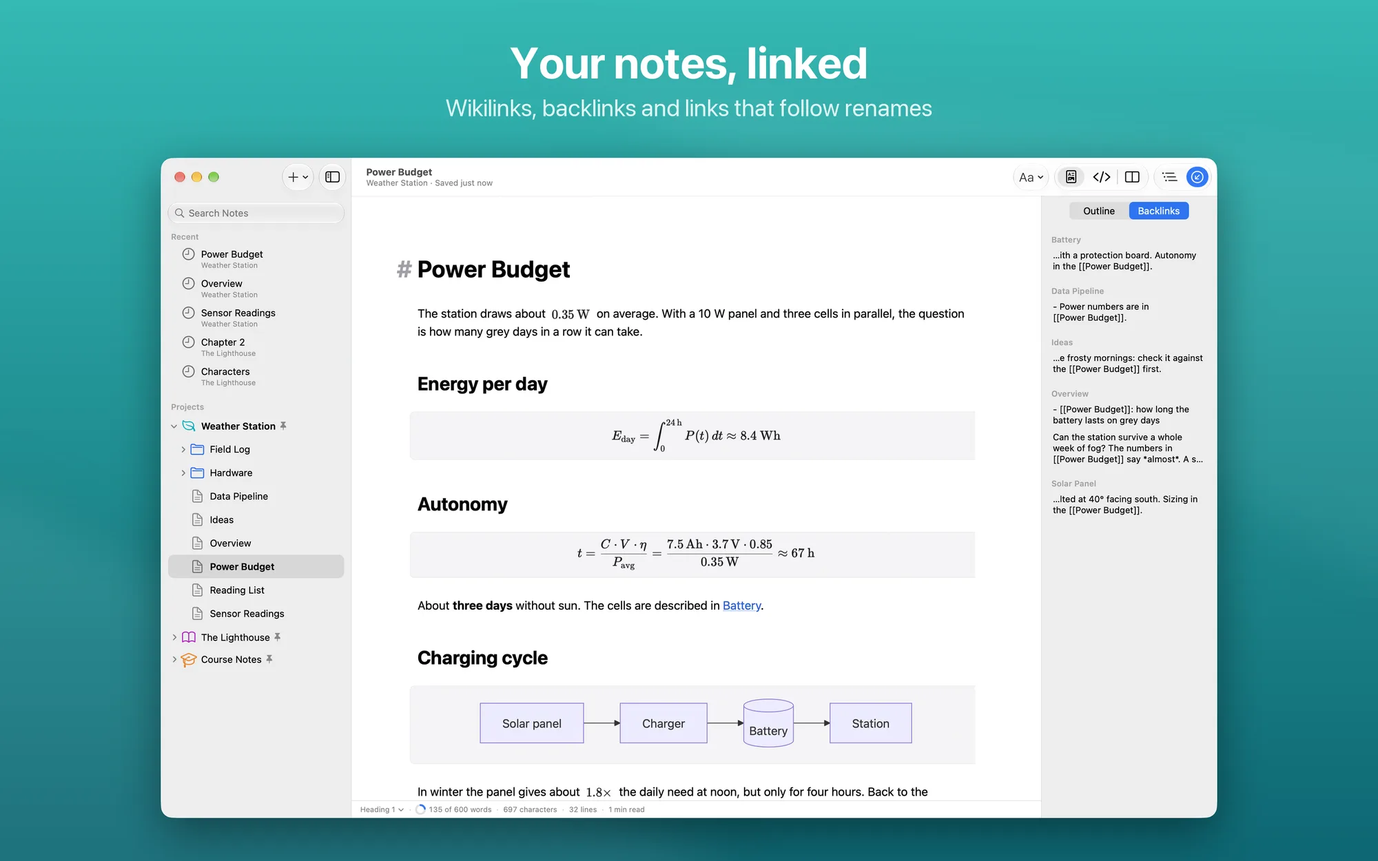
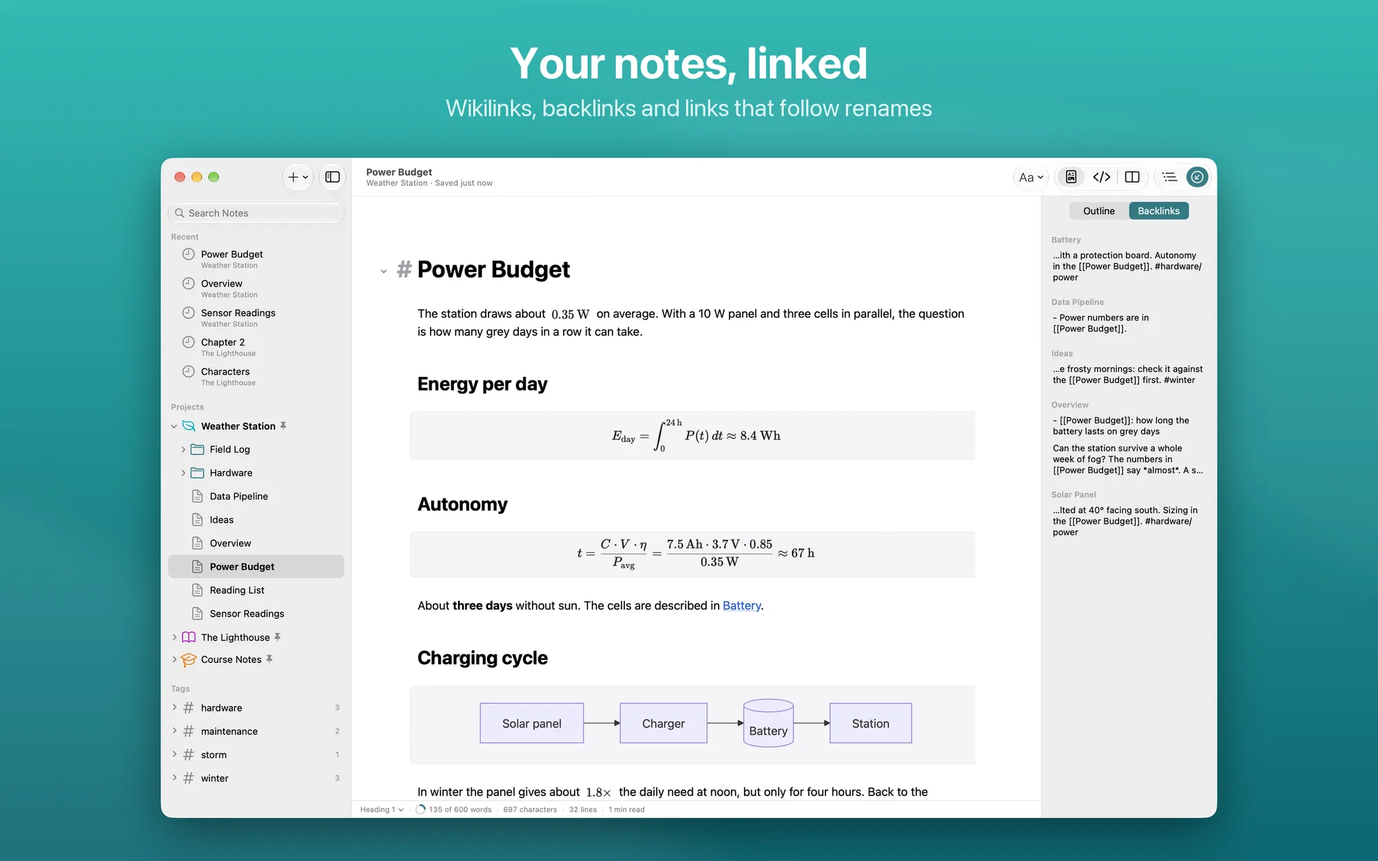
feat(charta): versione 1.1 e app per Mac sull'App Store
Pagina con la versione per Mac disponibile e le funzioni della 1.1: tag,
riquadro dei comandi, sezioni ripiegabili, anteprima dei collegamenti,
collegamenti rotti e note orfane, CSS personalizzato e opzioni del PDF,
copia come testo formattato. Pagina nuova della documentazione su tag,
comandi e sezioni ripiegate; screenshot della 1.1.

Changed region(s): [[0.744, 0.312, 0.868, 0.624], [0.806, 0.1872, 0.899, 0.312], [0.124, 0.8112, 0.186, 0.9048]]

diff --git a/src/data/docs/charta/tag-comandi-e-sezioni-ripiegate.md b/src/data/docs/charta/tag-comandi-e-sezioni-ripiegate.md
@@ -1,0 +1,67 @@
+---
+title: "Tag, comandi e sezioni ripiegate"
+description: "I tag #nome nelle note, il riquadro dei comandi, le sezioni ripiegabili e l'anteprima dei collegamenti di Charta, su Mac, iPhone e iPad."
+project: "charta"
+order: 6
+section: "Cartelle"
+---
+
+Quattro strumenti per orientarsi in note lunghe o numerose, arrivati con Charta 1.1.
+
+## Tag
+
+Un tag è una parola preceduta da `#`, scritta nel testo o nella chiave `tags:` del front matter:
+
+```markdown
+---
+tags: [meteo, hardware]
+---
+
+Da verificare prima dell'inverno. #idea #progetto/charta
+```
+
+- Il tag comincia all'inizio della riga o dopo uno spazio o una parentesi, e contiene lettere (anche accentate), cifre, `_`, `-` e `/`. Deve avere almeno un carattere che non sia una cifra, così `#1` resta testo.
+- La `/` crea tag annidati: `#progetto/charta` sta sotto `#progetto`.
+- Nel testo i tag si colorano su uno sfondo arrotondato, come il codice in linea, e nell'anteprima allo stesso modo. Dopo `#` Charta propone i tag già usati nella cartella.
+
+Nelle cartelle la barra laterale ha la sezione **Tag**: un ramo per tag, con i tag annidati dentro e le note che li hanno. **Cerca #… nelle note** cerca il tag in tutte le note. Nel testo, <kbd>⌘</kbd>-clic su un tag o **Note con #…** nel menu del tasto destro fanno la stessa ricerca.
+
+## Riquadro dei comandi
+
+**Vista › Comandi…** (<kbd>⇧</kbd> <kbd>⌘</kbd> <kbd>P</kbd>; su iPhone e iPad nel menu **Altro**, e <kbd>⇧</kbd> <kbd>⌘</kbd> <kbd>P</kbd> con la tastiera) apre un campo dove scrivi parte del nome di un comando:
+
+- i comandi di formato, inserimento, tabella, vista, sezioni ed esportazione, con la loro scorciatoia;
+- i titoli del documento, per andarci;
+- nelle cartelle, anche le note e i tag.
+
+Senza testo compaiono prima i comandi usati di recente. I comandi si trovano anche con parole diverse dal nome, per esempio «h1» per **Titolo 1** o «bold» per **Grassetto**.
+
+## Sezioni ripiegate
+
+Una sezione va da un titolo al titolo successivo dello stesso livello o più alto. Ripiegarla nasconde il suo testo e lascia il titolo con «…»; il file non cambia.
+
+- Una freccia accanto ai titoli ripiega e riapre la sezione. Sul Mac compare passando con il puntatore nel margine; su iPhone e nelle colonne strette sta dopo il testo del titolo dove c'è il cursore.
+- Sul Mac, nel menu **Vista**: **Ripiega la sezione** (<kbd>⌥</kbd> <kbd>⌘</kbd> <kbd>[</kbd>), **Espandi la sezione** (<kbd>⌥</kbd> <kbd>⌘</kbd> <kbd>]</kbd>), **Ripiega tutte le sezioni** (<kbd>⌃</kbd> <kbd>⌥</kbd> <kbd>⌘</kbd> <kbd>[</kbd>) ed **Espandi tutte le sezioni** (<kbd>⌃</kbd> <kbd>⌥</kbd> <kbd>⌘</kbd> <kbd>]</kbd>). Gli stessi comandi sono nel tasto destro su un titolo e nel riquadro dei comandi.
+- Nella **Struttura** i titoli hanno le stesse frecce, e il menu contestuale ha **Ripiega i titoli di livello N**. Trascinando un titolo nella Struttura sposti tutta la sua sezione; le righe vuote tra le sezioni restano al loro posto.
+- Scrivere dentro il tratto nascosto o andare a capo alla fine del titolo riapre la sezione. Il cursore non resta nascosto: la freccia → alla fine del titolo salta la sezione.
+
+Charta ricorda le sezioni ripiegate di ogni file e le ripiega di nuovo quando lo riapri o lo ricarichi. Funziona nel WYSIWYG e nell'editor di codice.
+
+## Anteprima dei collegamenti
+
+Fermando il puntatore su un collegamento `[[nota]]` o su un richiamo `[^1]` (su iPhone e iPad tenendolo premuto), compare un riquadro con:
+
+- l'inizio della nota, senza il front matter;
+- la sezione, se il collegamento punta a un titolo (`[[nota#titolo]]`);
+- il testo della nota a piè di pagina.
+
+Il testo è formattato e si ferma alla fine di un blocco, entro circa 1200 caratteri. Il riquadro si chiude quando riprendi a scrivere.
+
+## Collegamenti rotti e note orfane
+
+Nelle cartelle, **Archivio › Collegamenti rotti e note orfane…** (sul Mac anche nel menu **+**, su iPhone e iPad nel menu **Altro**, e nel riquadro dei comandi) apre due elenchi:
+
+- **Collegamenti rotti**: i collegamenti che non portano a nessuna nota della cartella, raggruppati per nome cercato. **Crea nota** crea la nota mancante; un clic su un collegamento apre la nota che lo contiene in quel punto.
+- **Note orfane**: le note che nessun'altra nota collega, con `[[…]]` o con un link Markdown. Un collegamento di una nota a sé stessa non conta.
+
+Gli elenchi si aggiornano a ogni salvataggio.

diff --git a/src/data/en/docs/charta/tags-commands-and-folded-sections.md b/src/data/en/docs/charta/tags-commands-and-folded-sections.md
@@ -1,0 +1,67 @@
+---
+title: "Tags, commands and folded sections"
+description: "Charta's #name tags, the command palette, foldable sections and link previews, on Mac, iPhone and iPad."
+project: "charta"
+order: 6
+section: "Folders"
+---
+
+Four tools for finding your way in long or numerous notes, added in Charta 1.1.
+
+## Tags
+
+A tag is a word preceded by `#`, written in the text or in the `tags:` key of the front matter:
+
+```markdown
+---
+tags: [weather, hardware]
+---
+
+To check before winter. #idea #project/charta
+```
+
+- A tag starts at the beginning of a line or after a space or a parenthesis, and contains letters (accented ones too), digits, `_`, `-` and `/`. It needs at least one character that isn't a digit, so `#1` stays text.
+- The `/` creates nested tags: `#project/charta` sits under `#project`.
+- In the text, tags are colored on a rounded background, like inline code, and the same in the preview. After `#`, Charta suggests the tags already used in the folder.
+
+In folders, the sidebar has a **Tags** section: one branch per tag, with nested tags inside and the notes that have them. **Search Notes for #…** searches every note for the tag. In the text, <kbd>⌘</kbd>-click on a tag or **Notes Tagged #…** in the right-click menu run the same search.
+
+## Command palette
+
+**View › Commands…** (<kbd>⇧</kbd> <kbd>⌘</kbd> <kbd>P</kbd>; on iPhone and iPad in the **More** menu, and <kbd>⇧</kbd> <kbd>⌘</kbd> <kbd>P</kbd> with a keyboard) opens a field where you type part of a command's name:
+
+- format, insert, table, view, section and export commands, with their shortcut;
+- the document's headings, to jump to them;
+- in folders, notes and tags too.
+
+With no text, recently used commands come first. Commands can also be found with words other than their name, for example "h1" for **Heading 1** or "bold" for **Bold**.
+
+## Folded sections
+
+A section runs from a heading to the next heading of the same or a higher level. Folding it hides its text and leaves the heading with "…"; the file doesn't change.
+
+- An arrow next to headings folds and unfolds the section. On the Mac it appears when the pointer passes over the margin; on iPhone and in narrow columns it sits after the text of the heading where the cursor is.
+- On the Mac, in the **View** menu: **Fold Section** (<kbd>⌥</kbd> <kbd>⌘</kbd> <kbd>[</kbd>), **Expand Section** (<kbd>⌥</kbd> <kbd>⌘</kbd> <kbd>]</kbd>), **Fold All Sections** (<kbd>⌃</kbd> <kbd>⌥</kbd> <kbd>⌘</kbd> <kbd>[</kbd>) and **Expand All Sections** (<kbd>⌃</kbd> <kbd>⌥</kbd> <kbd>⌘</kbd> <kbd>]</kbd>). The same commands are in the right-click menu on a heading and in the command palette.
+- In the **Outline**, headings have the same arrows, and the context menu has **Fold Level N Headings**. Dragging a heading in the Outline moves its whole section; the blank lines between sections stay where they are.
+- Typing inside the hidden part, or pressing Return at the end of the heading, unfolds the section. The cursor never stays hidden: the → key at the end of the heading skips the section.
+
+Charta remembers the folded sections of each file and folds them again when you reopen or reload it. It works in WYSIWYG and in the code editor.
+
+## Link previews
+
+Rest the pointer on a `[[note]]` link or a `[^1]` reference (on iPhone and iPad, press and hold it) and a popover shows:
+
+- the beginning of the note, without the front matter;
+- the section, if the link points to a heading (`[[note#heading]]`);
+- the text of the footnote.
+
+The text is formatted and stops at the end of a block, within about 1,200 characters. The popover closes when you start typing again.
+
+## Broken links and orphan notes
+
+In folders, **File › Broken Links and Orphan Notes…** (on the Mac also in the **+** menu, on iPhone and iPad in the **More** menu, and in the command palette) opens two lists:
+
+- **Broken Links**: links that don't lead to any note in the folder, grouped by the name they look for. **Create Note** creates the missing note; clicking a link opens the note that contains it at that point.
+- **Orphan Notes**: notes no other note links to, with `[[…]]` or with a Markdown link. A note linking to itself doesn't count.
+
+The lists update on every save.

diff --git a/src/data/projects/charta.md b/src/data/projects/charta.md
@@ -25,12 +25,15 @@ Charta è un editor Markdown per Mac, iPhone e iPad che ti fa scrivere lo stesso
 - **Formule e diagrammi**: formule LaTeX nel testo e a parte, disegnate con KaTeX, e diagrammi Mermaid, inclusi nell'app e senza bisogno di rete
 - **Markdown esteso**: tabelle, voci da spuntare, note a piè di pagina, front matter YAML, testo evidenziato, sommario `[TOC]`, citazioni speciali come `> [!NOTE]` e codice colorato in una trentina di linguaggi
 - **Note collegate**: una cartella si apre come progetto, con l'albero delle note e la ricerca nel testo di tutte; collegamenti `[[nota]]` completati mentre scrivi, collegamenti in entrata, link aggiornati quando rinomini una nota e grafo delle note
+- **Tag e sezioni**: tag `#nome` anche annidati, raccolti nella barra laterale; sezioni ripiegabili sotto i titoli, ricordate per ogni file, e spostate trascinando i titoli nella Struttura
+- **Riquadro dei comandi**: tutti i comandi, i titoli del documento e, nelle cartelle, note e tag, da trovare scrivendone una parte (<kbd>⇧</kbd> <kbd>⌘</kbd> <kbd>P</kbd>)
+- **Anteprima dei collegamenti**: fermando il puntatore su un `[[collegamento]]` o una nota a piè di pagina ne leggi il testo senza aprirlo; nelle cartelle l'elenco dei collegamenti rotti e delle note orfane
 - **Progetti**: progetti fissati e note recenti, ciascun progetto con il suo nome, colore e simbolo; Vai alla nota (<kbd>⌘</kbd> <kbd>T</kbd>) apre qualsiasi nota per nome
 - **Trova e sostituisci** in tutta la cartella, anche con parole intere ed espressioni regolari
 - **Tasto destro**: comandi per ciò che sta sotto il cursore, come aprire o rinominare una nota collegata, creare una nota dalla selezione, aggiungere righe e colonne, spuntare tutte le voci o spostare una sezione
 - **File cambiati da altre app**: Charta avvisa e chiede se ricaricare o tenere la versione aperta
 - **Scrivere più in fretta**: Invio continua gli elenchi, Tab passa alla cella successiva di una tabella, il testo copiato da una pagina web diventa Markdown, le immagini incollate o trascinate si salvano accanto alla nota; obiettivo di parole salvato nel file, conteggio delle parole e tempo di lettura
-- **Esporta e stampa**: HTML, PDF, Word (DOCX) ed EPUB, con lo stile dell'anteprima (GitHub, Carta o Compatto); in Word ed EPUB formule e diagrammi diventano immagini
+- **Esporta e stampa**: HTML, PDF, Word (DOCX) ed EPUB, con lo stile dell'anteprima (GitHub, Carta o Compatto) o un tuo CSS; nel PDF indice, numeri di pagina e intestazione; in Word ed EPUB formule e diagrammi diventano immagini. **Copia come testo formattato** per incollare in Mail, Pages o Word
 - **Solo sul Mac**: finestra di benvenuto con progetti e documenti recenti, menu Formato e Inserisci con le scorciatoie da tastiera, Modalità Focus e Macchina da scrivere, documenti in schede
 - **Solo su iPhone e iPad**: barra sopra la tastiera con formato, elenchi, link, rientri e un menu per inserire tabelle, codice, formule e diagrammi; esportazioni condivise con AirDrop, Mail o File
 - **Privata**: nessun account e nessun dato raccolto, i testi restano sul dispositivo; interfaccia in italiano e in inglese, tema chiaro e scuro
@@ -38,4 +41,4 @@ Charta è un editor Markdown per Mac, iPhone e iPad che ti fa scrivere lo stesso
 
 ## Piattaforme
 
-Disponibile sull'App Store per **iPhone** e **iPad** con iOS e iPadOS 26 o successivo. La versione per **Mac**, con chip Apple (Apple silicon) e macOS 26 o successivo, arriverà nella stessa pagina dello store: un solo download gratuito varrà su tutti i dispositivi.
+Disponibile sull'App Store per **Mac** con chip Apple (Apple silicon) e macOS 26 o successivo, e per **iPhone** e **iPad** con iOS e iPadOS 26 o successivo. Un solo download gratuito vale su tutti i dispositivi.

diff --git a/src/data/en/projects/charta.md b/src/data/en/projects/charta.md
@@ -25,12 +25,15 @@ Charta is a Markdown editor for Mac, iPhone and iPad that lets you write the sam
 - **Math and diagrams**: LaTeX math inline and in blocks, rendered with KaTeX, and Mermaid diagrams, bundled in the app and working without a network
 - **Extended Markdown**: tables, checklists, footnotes, YAML front matter, highlighted text, a `[TOC]` table of contents, callouts like `> [!NOTE]` and code highlighting for about thirty languages
 - **Linked notes**: open a folder as a project, with a note tree and full-text search; `[[note]]` links completed as you type, backlinks, links that update when you rename a note, and a note graph
+- **Tags and sections**: `#name` tags, nested too, gathered in the sidebar; foldable sections under headings, remembered for each file, and moved by dragging headings in the Outline
+- **Command palette**: every command, the document's headings and, in folders, notes and tags, found by typing part of their name (<kbd>⇧</kbd> <kbd>⌘</kbd> <kbd>P</kbd>)
+- **Link previews**: rest the pointer on a `[[link]]` or a footnote to read it without opening it; in folders, a list of broken links and orphan notes
 - **Projects**: pinned projects and recent notes, each project with its own name, color and symbol; Go to Note (<kbd>⌘</kbd> <kbd>T</kbd>) opens any note by name
 - **Find and replace** across the whole folder, with whole words and regular expressions
 - **Right-click**: commands for what's under the cursor, such as opening or renaming a linked note, creating a note from the selection, adding rows and columns, checking every item or moving a section
 - **Files changed by other apps**: Charta tells you and asks whether to reload or keep the open version
 - **Write faster**: Return continues lists, Tab moves to the next table cell, text copied from a web page becomes Markdown, pasted or dropped images are saved next to the note; a word goal saved in the file, word count and reading time
-- **Export and print**: HTML, PDF, Word (DOCX) and EPUB, in the preview style of your choice (GitHub, Paper or Compact); in Word and EPUB, math and diagrams become images
+- **Export and print**: HTML, PDF, Word (DOCX) and EPUB, in the preview style of your choice (GitHub, Paper or Compact) or your own CSS; in PDFs a table of contents, page numbers and a header; in Word and EPUB, math and diagrams become images. **Copy as Rich Text** to paste into Mail, Pages or Word
 - **Mac only**: a welcome window with recent projects and documents, Format and Insert menus with keyboard shortcuts, Focus Mode and Typewriter Mode, documents in tabs
 - **iPhone and iPad only**: a bar above the keyboard with formatting, lists, links, indentation and a menu to insert tables, code, math and diagrams; exports shared with AirDrop, Mail or Files
 - **Private**: no account and no data collected, your writing stays on your device; interface in English and Italian, light and dark themes
@@ -38,4 +41,4 @@ Charta is a Markdown editor for Mac, iPhone and iPad that lets you write the sam
 
 ## Platforms
 
-Available on the App Store for **iPhone** and **iPad** with iOS and iPadOS 26 or later. The **Mac** version, for Apple silicon with macOS 26 or later, will arrive on the same store page: one free download will work on all your devices.
+Available on the App Store for **Mac** with Apple silicon and macOS 26 or later, and for **iPhone** and **iPad** with iOS and iPadOS 26 or later. One free download works on all your devices.

diff --git a/src/data/docs/charta/formato-tabelle-e-scrittura.md b/src/data/docs/charta/formato-tabelle-e-scrittura.md
@@ -37,10 +37,11 @@ Un clic con il tasto destro nel testo (su iPhone e iPad il menu che compare tocc
 
 - **su un collegamento `[[nota]]`**: **Apri «…»**, **Collegamenti in entrata** e **Rinomina la nota…** (nelle cartelle), sul Mac **Apri in una finestra a parte**; se la nota non esiste, **Crea la nota «…»**. Poi **Copia collegamento** e **Togli il collegamento**;
 - **su un link**: **Apri link** (o **Vai al titolo** per un link interno), **Copia indirizzo**, **Modifica link…**, che seleziona l'indirizzo, e **Togli il collegamento**, che lascia il testo;
-- **con del testo selezionato**, in una cartella: **Crea nota dalla selezione** sposta il testo in una nota nuova accanto e lascia al suo posto il collegamento; **Collega a una nota…** trasforma la selezione in `[[|testo]]` e propone le note; **Cerca nella cartella** la cerca in tutte le note;
+- **con del testo selezionato**, in una cartella: **Crea nota dalla selezione** sposta il testo in una nota nuova accanto e lascia al suo posto il collegamento; **Collega a una nota…** trasforma la selezione in `[[|testo]]` e propone le note; **Cerca nella cartella** la cerca in tutte le note. Con qualsiasi selezione c'è anche **Copia come testo formattato**;
 - **in una tabella**: i sottomenu **Riga** (**Inserisci riga sopra**, **Inserisci riga sotto**, **Elimina riga**) e **Colonna** (inserisci a sinistra o a destra, elimina, allinea), e **Formatta tabella**;
 - **in una voce da spuntare**: **Spunta** o **Togli la spunta**, **Spunta tutte** e **Togli tutte le spunte** (anche le voci annidate);
-- **su un titolo**: **Copia collegamento al titolo** (un `[[nota#titolo]]` nelle cartelle, un link `#titolo` in un documento) e **Sposta la sezione in su** o **in giù**, che scambia il titolo e il suo testo con la sezione vicina dello stesso livello;
+- **su un titolo**: **Copia collegamento al titolo** (un `[[nota#titolo]]` nelle cartelle, un link `#titolo` in un documento) e **Sposta la sezione in su** o **in giù**, che scambia il titolo e il suo testo con la sezione vicina dello stesso livello; poi **Ripiega la sezione** o **Espandi la sezione** e le versioni per tutte le sezioni;
+- **su un tag**: **Note con #…** cerca il tag in tutte le note della cartella;
 - **in un blocco di codice**: **Copia il codice** e il sottomenu **Lingua**; **in una formula o un diagramma**: **Copia il sorgente**; **su un richiamo di nota**: **Vai alla nota a piè di pagina**;
 - **nel testo normale**: i sottomenu **Formato** e **Trasforma in** (testo, titoli, elenchi, citazione).
 

diff --git a/src/data/docs/charta/cartelle-e-note-collegate.md b/src/data/docs/charta/cartelle-e-note-collegate.md
@@ -13,10 +13,11 @@ Una cartella aperta in Charta diventa un **progetto**: un insieme di note Markdo
 - **Mac**: **Archivio › Apri cartella…** (<kbd>⇧</kbd> <kbd>⌘</kbd> <kbd>O</kbd>). Ogni cartella si apre nella sua finestra; le ultime aperte sono in **Archivio › Cartelle recenti**, che si svuota con **Cancella elenco**.
 - **iPhone e iPad**: **Apri cartella** nella schermata iniziale. Su iPad la cartella si apre in una finestra sua, su iPhone a schermo intero.
 
-A sinistra c'è la barra delle cartelle con due sezioni:
+A sinistra c'è la barra delle cartelle con tre sezioni:
 
 - **Recenti**: le ultime note aperte, di tutti i progetti, con il nome del progetto sotto;
-- **Progetti**: i progetti fissati e recenti, ciascuno un ramo da aprire. Il progetto della finestra mostra il suo albero; una nota di un altro progetto lo apre nella stessa finestra (o porta davanti la finestra che lo ha già aperto).
+- **Progetti**: i progetti fissati e recenti, ciascuno un ramo da aprire. Il progetto della finestra mostra il suo albero; una nota di un altro progetto lo apre nella stessa finestra (o porta davanti la finestra che lo ha già aperto);
+- **Tag**: i tag delle note del progetto, con i tag annidati (vedi [Tag, comandi e sezioni ripiegate](/progetti/charta/docs/tag-comandi-e-sezioni-ripiegate)).
 
 Se una cartella è stata spostata o non è più raggiungibile, la finestra lo dice e offre **Apri un altro progetto**.
 
@@ -39,6 +40,8 @@ Con **Impostazioni › Generali › Ricarica senza chiedere i file cambiati da a
 Scrivi `[[` e il nome di una nota: Charta propone le note della cartella mentre scrivi (sul Mac in un elenco sotto il cursore, su iPhone e iPad nella barra sopra la tastiera). Dopo `[[Nota#` propone i titoli di quella nota. Le forme `[[Nota#Titolo]]` e `[[Nota|testo]]` sono spiegate in [Markdown supportato](/progetti/charta/docs/markdown-supportato).
 
 Un clic su un collegamento, nel WYSIWYG o nell'anteprima, apre la nota; se la nota non esiste ancora, Charta la crea accanto a quella aperta, con il nome come titolo.
+
+Fermando il puntatore su un collegamento (su iPhone e iPad tenendolo premuto) vedi l'inizio della nota senza aprirla. Per i collegamenti che non portano a nessuna nota c'è **Collegamenti rotti e note orfane…**: vedi [Tag, comandi e sezioni ripiegate](/progetti/charta/docs/tag-comandi-e-sezioni-ripiegate).
 
 ### Collegamenti in entrata
 

diff --git a/src/data/en/docs/charta/folders-and-linked-notes.md b/src/data/en/docs/charta/folders-and-linked-notes.md
@@ -13,10 +13,11 @@ A folder opened in Charta becomes a **project**: a set of Markdown notes (with t
 - **Mac**: **File › Open Folder…** (<kbd>⇧</kbd> <kbd>⌘</kbd> <kbd>O</kbd>). Each folder opens in its own window; the latest ones are in **File › Recent Folders**, emptied with **Clear List**.
 - **iPhone and iPad**: **Open Folder** on the launch screen. On iPad the folder opens in its own window, on iPhone full screen.
 
-On the left there's the folder sidebar with two sections:
+On the left there's the folder sidebar with three sections:
 
 - **Recent**: the latest notes you opened, from every project, with the project name below;
-- **Projects**: pinned and recent projects, each a branch you can expand. The window's project shows its tree; a note from another project opens that project in the same window (or brings forward the window that already has it).
+- **Projects**: pinned and recent projects, each a branch you can expand. The window's project shows its tree; a note from another project opens that project in the same window (or brings forward the window that already has it);
+- **Tags**: the tags of the project's notes, with nested tags (see [Tags, commands and folded sections](/en/projects/charta/docs/tags-commands-and-folded-sections)).
 
 If a folder was moved or can no longer be reached, the window says so and offers **Open Another Project**.
 
@@ -39,6 +40,8 @@ With **Settings › General › Reload Files Changed by Other Apps Without Askin
 Type `[[` and a note's name: Charta suggests the folder's notes as you type (on the Mac in a list under the cursor, on iPhone and iPad in the bar above the keyboard). After `[[Note#` it suggests that note's headings. The `[[Note#Heading]]` and `[[Note|text]]` forms are explained in [Supported Markdown](/en/projects/charta/docs/supported-markdown).
 
 Clicking a link, in WYSIWYG or in the preview, opens the note; if the note doesn't exist yet, Charta creates it next to the open one, with the name as its title.
+
+Rest the pointer on a link (on iPhone and iPad, press and hold it) to see the beginning of the note without opening it. For links that lead to no note there's **Broken Links and Orphan Notes…**: see [Tags, commands and folded sections](/en/projects/charta/docs/tags-commands-and-folded-sections).
 
 ### Backlinks
 

diff --git a/src/data/en/docs/charta/formatting-tables-and-writing.md b/src/data/en/docs/charta/formatting-tables-and-writing.md
@@ -37,10 +37,11 @@ Right-clicking in the text (on iPhone and iPad, the menu that appears when you t
 
 - **on a `[[note]]` link**: **Open "…"**, **Backlinks** and **Rename Note…** (in folders), on the Mac **Open in a Separate Window**; if the note doesn't exist, **Create Note "…"**. Then **Copy Link** and **Remove Link**;
 - **on a link**: **Open Link** (or **Go to Heading** for an internal link), **Copy Address**, **Edit Link…**, which selects the address, and **Remove Link**, which keeps the text;
-- **with text selected**, in a folder: **New Note from Selection** moves the text into a new note next to this one and leaves the link in its place; **Link to a Note…** turns the selection into `[[|text]]` and suggests notes; **Search in Folder** searches every note for it;
+- **with text selected**, in a folder: **New Note from Selection** moves the text into a new note next to this one and leaves the link in its place; **Link to a Note…** turns the selection into `[[|text]]` and suggests notes; **Search in Folder** searches every note for it. With any selection there's also **Copy as Rich Text**;
 - **in a table**: the **Row** (**Insert Row Above**, **Insert Row Below**, **Delete Row**) and **Column** (insert left or right, delete, align) submenus, and **Format Table**;
 - **in a checklist item**: **Check** or **Uncheck**, **Check All** and **Uncheck All** (nested items included);
-- **on a heading**: **Copy Link to Heading** (a `[[note#heading]]` in folders, a `#heading` link in a document) and **Move Section Up** or **Down**, which swaps the heading and its text with the neighboring section of the same level;
+- **on a heading**: **Copy Link to Heading** (a `[[note#heading]]` in folders, a `#heading` link in a document) and **Move Section Up** or **Down**, which swaps the heading and its text with the neighboring section of the same level; then **Fold Section** or **Expand Section** and the versions for all sections;
+- **on a tag**: **Notes Tagged #…** searches every note in the folder for the tag;
 - **in a code block**: **Copy Code** and the **Language** submenu; **in math or a diagram**: **Copy Source**; **on a footnote reference**: **Go to Footnote**;
 - **in plain text**: the **Format** and **Turn Into** submenus (text, headings, lists, quote).
 

diff --git a/src/data/docs/charta/scorciatoie.md b/src/data/docs/charta/scorciatoie.md
@@ -2,7 +2,7 @@
 title: "Scorciatoie da tastiera"
 description: "Tutte le scorciatoie da tastiera di Charta per Mac, divise per menu, e quelle che valgono su iPad con una tastiera."
 project: "charta"
-order: 9
+order: 10
 section: "Riferimento"
 ---
 
@@ -17,6 +17,12 @@ Oltre a queste valgono le scorciatoie standard di macOS: <kbd>⌘</kbd> <kbd>N</
 | Grafo delle note | <kbd>⌥</kbd> <kbd>⌘</kbd> <kbd>G</kbd> |
 | Apri cartella… | <kbd>⇧</kbd> <kbd>⌘</kbd> <kbd>O</kbd> |
 | Stampa… | <kbd>⌘</kbd> <kbd>P</kbd> |
+
+## Composizione
+
+| Comando | Scorciatoia |
+|---|---|
+| Copia come testo formattato | <kbd>⇧</kbd> <kbd>⌘</kbd> <kbd>C</kbd> |
 
 ## Formato
 
@@ -59,6 +65,9 @@ Oltre a queste valgono le scorciatoie standard di macOS: <kbd>⌘</kbd> <kbd>N</
 | Solo anteprima | <kbd>⌥</kbd> <kbd>⇧</kbd> <kbd>⌘</kbd> <kbd>P</kbd> |
 | Mostra · Nascondi struttura | <kbd>⇧</kbd> <kbd>⌘</kbd> <kbd>L</kbd> |
 | Collegamenti in entrata | <kbd>⇧</kbd> <kbd>⌘</kbd> <kbd>B</kbd> |
+| Comandi… | <kbd>⇧</kbd> <kbd>⌘</kbd> <kbd>P</kbd> |
+| Ripiega la sezione · Espandi la sezione | <kbd>⌥</kbd> <kbd>⌘</kbd> <kbd>[</kbd> · <kbd>⌥</kbd> <kbd>⌘</kbd> <kbd>]</kbd> |
+| Ripiega tutte le sezioni · Espandi tutte le sezioni | <kbd>⌃</kbd> <kbd>⌥</kbd> <kbd>⌘</kbd> <kbd>[</kbd> · <kbd>⌃</kbd> <kbd>⌥</kbd> <kbd>⌘</kbd> <kbd>]</kbd> |
 | Modalità Focus | <kbd>⌃</kbd> <kbd>⇧</kbd> <kbd>⌘</kbd> <kbd>F</kbd> |
 | Macchina da scrivere | <kbd>⌃</kbd> <kbd>⇧</kbd> <kbd>⌘</kbd> <kbd>T</kbd> |
 | Ingrandisci testo · Riduci testo | <kbd>⌘</kbd> <kbd>+</kbd> · <kbd>⌘</kbd> <kbd>-</kbd> |
@@ -83,5 +92,6 @@ Oltre a queste valgono le scorciatoie standard di macOS: <kbd>⌘</kbd> <kbd>N</
 |---|---|
 | Grassetto · Corsivo · Link | <kbd>⌘</kbd> <kbd>B</kbd> · <kbd>⌘</kbd> <kbd>I</kbd> · <kbd>⌘</kbd> <kbd>K</kbd> |
 | WYSIWYG o codice | <kbd>⌘</kbd> <kbd>E</kbd> |
+| Comandi… | <kbd>⇧</kbd> <kbd>⌘</kbd> <kbd>P</kbd> |
 | Vai alla nota (nelle cartelle) | <kbd>⌘</kbd> <kbd>T</kbd> |
 | Collegamenti in entrata (nelle cartelle) | <kbd>⇧</kbd> <kbd>⌘</kbd> <kbd>B</kbd> |

diff --git a/src/data/docs/charta/iphone-e-ipad.md b/src/data/docs/charta/iphone-e-ipad.md
@@ -2,7 +2,7 @@
 title: "iPhone e iPad"
 description: "Charta su iPhone e iPad: schermata iniziale, barra sopra la tastiera, menu della barra, tastiera esterna e differenze dalla versione per Mac."
 project: "charta"
-order: 7
+order: 8
 section: "iPhone e iPad"
 ---
 
@@ -24,9 +24,11 @@ A destra del titolo, nello stesso ordine del Mac:
 - **Formato**: stili, titoli, elenchi, inserimenti e, con il cursore in una tabella, i comandi delle tabelle;
 - su iPad, il **selettore della vista**: **WYSIWYG**, **Editor di codice**, **Codice e anteprima** (se non l'hai spostato nella barra di stato);
 - su iPad, **Struttura**; nelle cartelle, **Collegamenti in entrata**;
-- **Altro** (…): **Solo anteprima**, **Scorrimento sincronizzato** (nell'editor di codice), le esportazioni, **Stampa…** e, nei documenti, **Impostazioni**. Su iPhone, dove c'è meno posto, ci sono anche il selettore della vista e **Struttura**.
+- **Altro** (…): **Comandi…**, **Solo anteprima**, **Scorrimento sincronizzato** (nell'editor di codice), le esportazioni, **Stampa…** e, nei documenti, **Impostazioni**. Su iPhone, dove c'è meno posto, ci sono anche il selettore della vista e **Struttura**.
 
-Nelle cartelle le **Impostazioni** sono nel menu **Altro** (…) della barra laterale, accanto a **Grafo delle note**, **Nuova cartella** e **Ordina per**.
+Nelle cartelle le **Impostazioni** sono nel menu **Altro** (…) della barra laterale, accanto a **Grafo delle note**, **Collegamenti rotti e note orfane**, **Nuova cartella** e **Ordina per**.
+
+Tenendo premuto un collegamento `[[nota]]` o un richiamo di nota a piè di pagina compare la sua anteprima. Su iPhone, dove non c'è il margine, la freccia per ripiegare una sezione sta dopo il titolo dove c'è il cursore (vedi [Tag, comandi e sezioni ripiegate](/progetti/charta/docs/tag-comandi-e-sezioni-ripiegate)).
 
 Su iPhone l'anteprima sta sotto il testo e la struttura e i collegamenti in entrata si aprono in un foglio; su iPad l'anteprima sta accanto e la barra laterale resta affiancata al testo.
 

diff --git a/src/data/en/docs/charta/keyboard-shortcuts.md b/src/data/en/docs/charta/keyboard-shortcuts.md
@@ -2,7 +2,7 @@
 title: "Keyboard shortcuts"
 description: "All of Charta's keyboard shortcuts for Mac, by menu, and the ones that work on iPad with a keyboard."
 project: "charta"
-order: 9
+order: 10
 section: "Reference"
 ---
 
@@ -17,6 +17,12 @@ The standard macOS shortcuts also work: <kbd>⌘</kbd> <kbd>N</kbd>, <kbd>⌘</k
 | Note Graph | <kbd>⌥</kbd> <kbd>⌘</kbd> <kbd>G</kbd> |
 | Open Folder… | <kbd>⇧</kbd> <kbd>⌘</kbd> <kbd>O</kbd> |
 | Print… | <kbd>⌘</kbd> <kbd>P</kbd> |
+
+## Edit
+
+| Command | Shortcut |
+|---|---|
+| Copy as Rich Text | <kbd>⇧</kbd> <kbd>⌘</kbd> <kbd>C</kbd> |
 
 ## Format
 
@@ -59,6 +65,9 @@ The standard macOS shortcuts also work: <kbd>⌘</kbd> <kbd>N</kbd>, <kbd>⌘</k
 | Preview Only | <kbd>⌥</kbd> <kbd>⇧</kbd> <kbd>⌘</kbd> <kbd>P</kbd> |
 | Show · Hide Outline | <kbd>⇧</kbd> <kbd>⌘</kbd> <kbd>L</kbd> |
 | Backlinks | <kbd>⇧</kbd> <kbd>⌘</kbd> <kbd>B</kbd> |
+| Commands… | <kbd>⇧</kbd> <kbd>⌘</kbd> <kbd>P</kbd> |
+| Fold Section · Expand Section | <kbd>⌥</kbd> <kbd>⌘</kbd> <kbd>[</kbd> · <kbd>⌥</kbd> <kbd>⌘</kbd> <kbd>]</kbd> |
+| Fold All Sections · Expand All Sections | <kbd>⌃</kbd> <kbd>⌥</kbd> <kbd>⌘</kbd> <kbd>[</kbd> · <kbd>⌃</kbd> <kbd>⌥</kbd> <kbd>⌘</kbd> <kbd>]</kbd> |
 | Focus Mode | <kbd>⌃</kbd> <kbd>⇧</kbd> <kbd>⌘</kbd> <kbd>F</kbd> |
 | Typewriter Mode | <kbd>⌃</kbd> <kbd>⇧</kbd> <kbd>⌘</kbd> <kbd>T</kbd> |
 | Bigger Text · Smaller Text | <kbd>⌘</kbd> <kbd>+</kbd> · <kbd>⌘</kbd> <kbd>-</kbd> |
@@ -83,5 +92,6 @@ The standard macOS shortcuts also work: <kbd>⌘</kbd> <kbd>N</kbd>, <kbd>⌘</k
 |---|---|
 | Bold · Italic · Link | <kbd>⌘</kbd> <kbd>B</kbd> · <kbd>⌘</kbd> <kbd>I</kbd> · <kbd>⌘</kbd> <kbd>K</kbd> |
 | WYSIWYG or Code | <kbd>⌘</kbd> <kbd>E</kbd> |
+| Commands… | <kbd>⇧</kbd> <kbd>⌘</kbd> <kbd>P</kbd> |
 | Go to Note (in folders) | <kbd>⌘</kbd> <kbd>T</kbd> |
 | Backlinks (in folders) | <kbd>⇧</kbd> <kbd>⌘</kbd> <kbd>B</kbd> |

diff --git a/src/data/docs/charta/impostazioni.md b/src/data/docs/charta/impostazioni.md
@@ -2,11 +2,11 @@
 title: "Impostazioni"
 description: "Tutte le impostazioni di Charta su Mac, iPhone e iPad, con i valori predefiniti."
 project: "charta"
-order: 8
+order: 9
 section: "Riferimento"
 ---
 
-Sul Mac: **Charta › Impostazioni…** (<kbd>⌘</kbd> <kbd>,</kbd>), con le schede **Generali**, **Editor** e **Anteprima**. Su iPhone e iPad: **Impostazioni** nel menu **Altro** (…) della barra di un documento o della barra laterale di una cartella, in un'unica pagina. Le impostazioni valgono per tutti i documenti; quelle di un singolo progetto sono in [Cartelle e note collegate](/progetti/charta/docs/cartelle-e-note-collegate).
+Sul Mac: **Charta › Impostazioni…** (<kbd>⌘</kbd> <kbd>,</kbd>), con le schede **Generali**, **Editor**, **Anteprima** ed **Esportazione**. Su iPhone e iPad: **Impostazioni** nel menu **Altro** (…) della barra di un documento o della barra laterale di una cartella, in un'unica pagina. Le impostazioni valgono per tutti i documenti; quelle di un singolo progetto sono in [Cartelle e note collegate](/progetti/charta/docs/cartelle-e-note-collegate).
 
 ## Generali
 
@@ -61,6 +61,17 @@ Sul Mac <kbd>⌘</kbd> <kbd>+</kbd> e <kbd>⌘</kbd> <kbd>-</kbd> cambiano insie
 | Scorrimento sincronizzato | | attivo |
 
 Lo stile vale anche per l'esportazione in HTML e PDF. Su iPhone e iPad la disposizione si sceglie con il selettore della vista.
+
+## Esportazione
+
+| Impostazione | Valori | Predefinito |
+|---|---|---|
+| Usa un CSS personalizzato | un tuo CSS per anteprima, HTML, PDF, stampa ed EPUB | spenta |
+| Indice all'inizio | indice dei titoli sulla prima pagina del PDF e della stampa | spenta |
+| Numeri di pagina | «3 / 12» in fondo alle pagine del PDF | attiva |
+| Intestazione con titolo e data | in cima alle pagine del PDF | spenta |
+
+Dettagli in [Esportazione e stampa](/progetti/charta/docs/esportazione-e-stampa).
 
 ## Riconoscimenti
 
